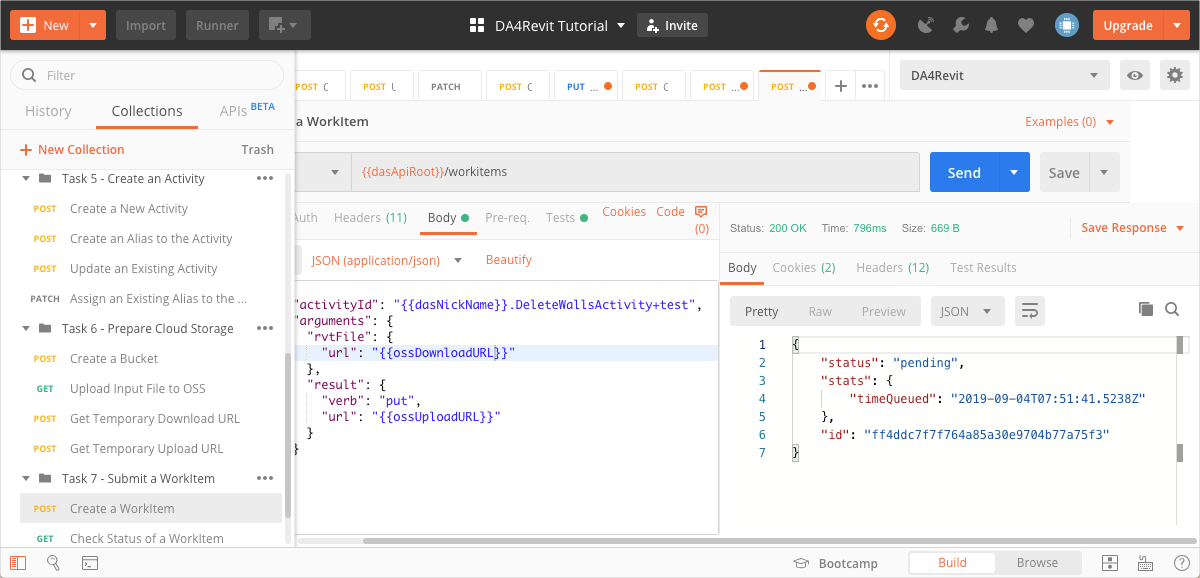
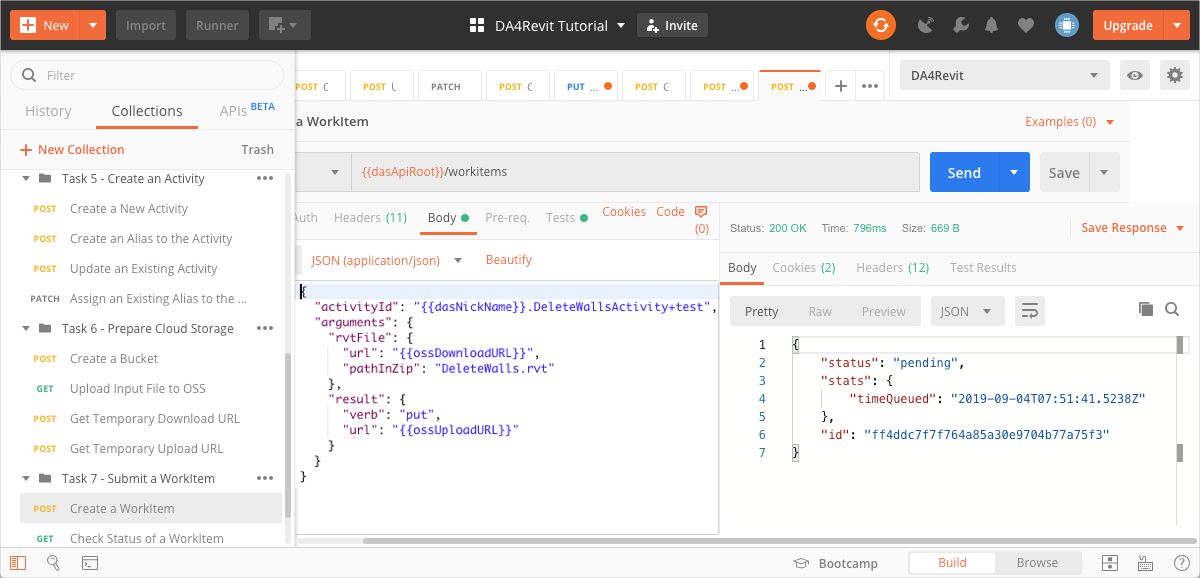
Added pathInzip attribute

Changed region(s): [[0.2467, 0.4983, 0.5858, 0.7474]]

diff --git a/DA4Revit/instructions/task-7.md b/DA4Revit/instructions/task-7.md
@@ -18,6 +18,17 @@ For this exercise, you will apply the DeleteWalls Activity on the Revit file you
 
     ![deleteWallsResultUrl](../images/task7-result_url.png "deleteWallsResultUrl")
 
+    The main attributes on the JSON payload are:
+
+    - `activityId` - Specifies what Activity to execute. The id you specify here must be a fully qualified id. A fully qualified id is made up of three parts. They start with the Nickname of the Forge App (or the Client Id of the Forge App. The Nickname is followed by the '.' character, which in turn is followed by the Activity name. This is followed by the '+' character and finally the Activity Alias. For more information on fully qualified ids and unqualified ids, see the [Forge portal documentation on ids](https://forge.autodesk.com/en/docs/design-automation/v3/developers_guide/aliases-and-ids/#ids).
+
+    - `arguments` - Contains all the parameters that need to be passed to the Activity specified by `activityId`. They must match the parameters you specified in Task 5, when you created the Activity.
+
+    - `rvtFile` - Specifies how to obtain the input rvt file file for the Activity. It contains the signed download URL to the rvt file or a zip file that contains the rvt file. This is followed by the HTTP verb that downloads the file. If you uploaded a zip file in task 6, use the `pathInZip` attribute to specify the relative path to the Revit file. If you uploaded a Revit file instead of a zip file, do not specify the `pathInZip` attribute.
+
+    - `result` - Specifies the signed URL to the location reserved for the output of the activity, followed by the HTTP verb to use.
+
+
 ## Check Status of a WorkItem
 
 Design Automation WorkItems are queued before they are processed. Processing itself can take time. Once processing is done, you need to know if the WorkItems ran successfully or not. As such it is important for you to check the status of the WorkItem you created.
